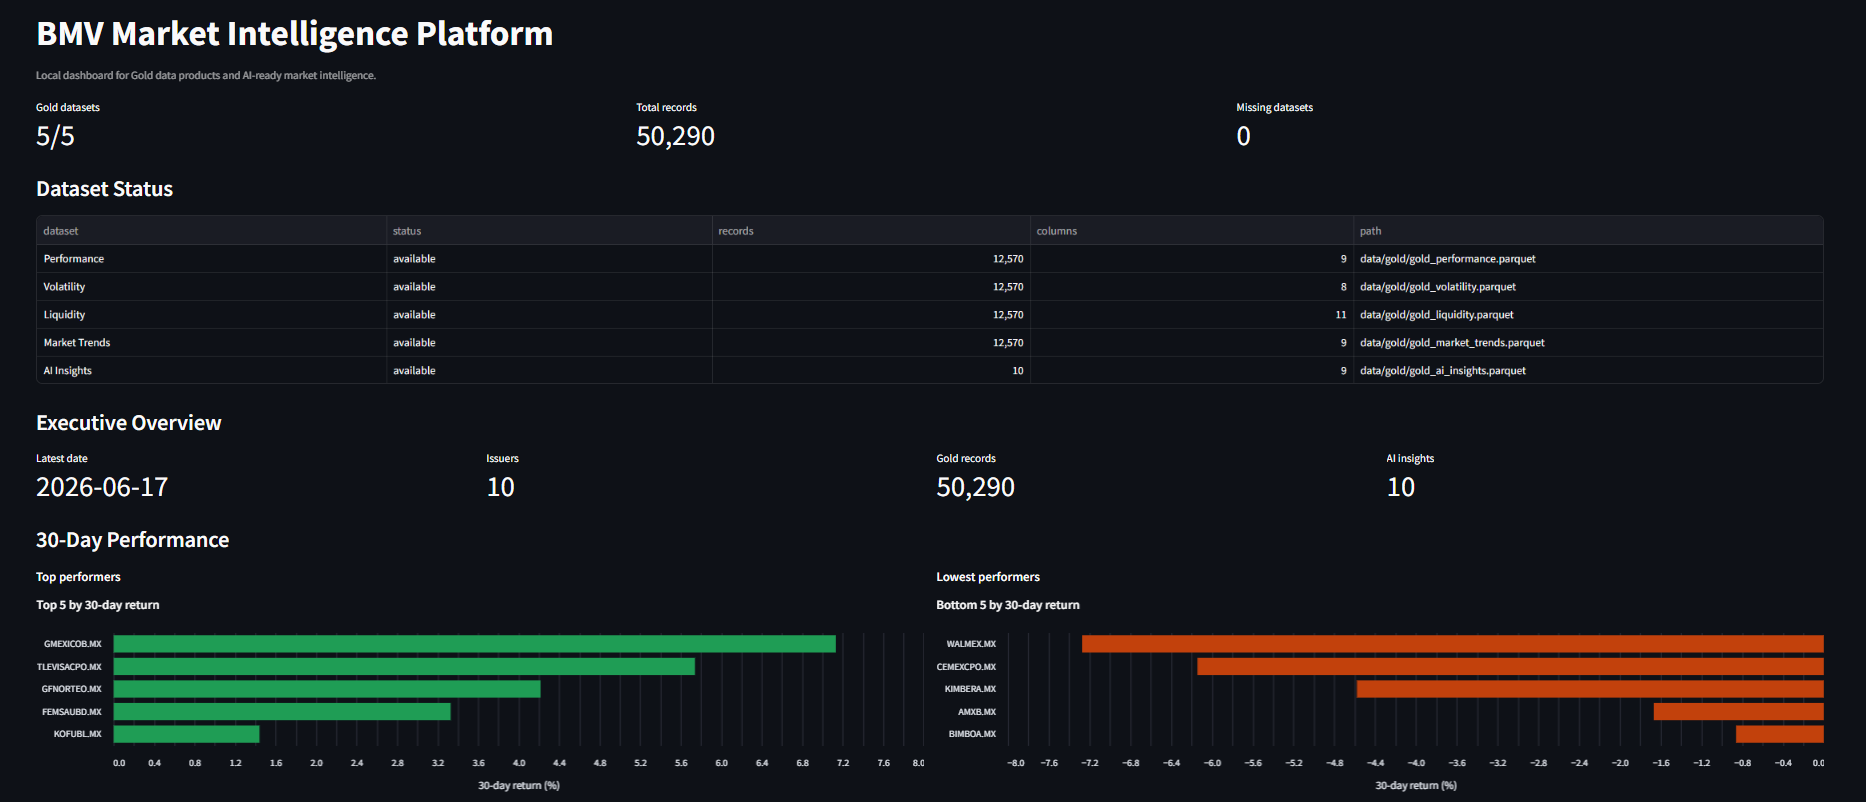
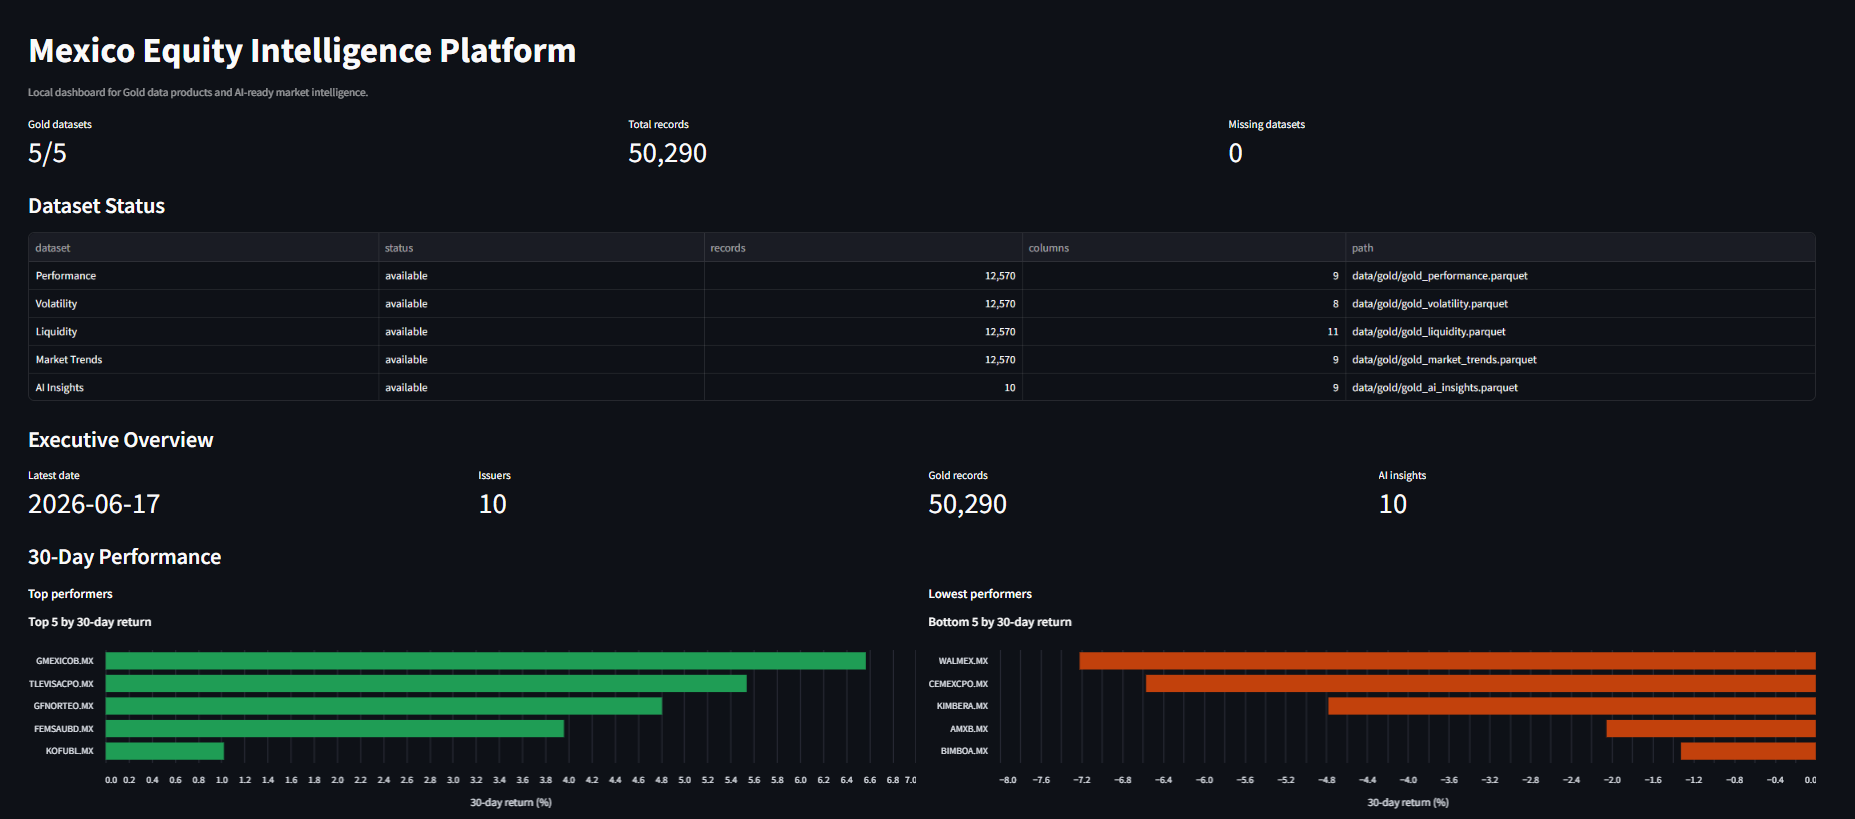
Rename platform and clarify licensing

diff --git a/src/api/main.py b/src/api/main.py
@@ -25,8 +25,8 @@ DATASET_PATHS = {
 }
 
 app = FastAPI(
-    title="BMV Market Intelligence API",
-    description="Local API exposing BMV market intelligence Gold data products.",
+    title="Mexico Equity Intelligence API",
+    description="Local API exposing Mexican equity intelligence Gold data products.",
     version="0.1.0",
 )
 

diff --git a/src/dashboard/app.py b/src/dashboard/app.py
@@ -393,12 +393,12 @@ def render_llm_agent_section() -> None:
 
 def main() -> None:
     st.set_page_config(
-        page_title="BMV Market Intelligence",
+        page_title="Mexico Equity Intelligence",
         page_icon="chart_with_upwards_trend",
         layout="wide",
     )
 
-    st.title("BMV Market Intelligence Platform")
+    st.title("Mexico Equity Intelligence Platform")
     st.caption("Local dashboard for Gold data products and AI-ready market intelligence.")
 
     datasets = load_gold_datasets()

diff --git a/docs/internal/CODEX_SESSION_STATE.md b/docs/internal/CODEX_SESSION_STATE.md
@@ -2,7 +2,7 @@
 
 ## Current Status
 
-The project currently implements the local Raw, Silver, Gold, Metadata, Data Quality, API, Dashboard, AI Agent, documentation, and demo preview layers for the BMV Market Intelligence Platform MVP.
+The project currently implements the local Raw, Silver, Gold, Metadata, Data Quality, API, Dashboard, AI Agent, documentation, and demo preview layers for the Mexico Equity Intelligence Platform MVP.
 
 Current saved status date:
 
@@ -53,7 +53,7 @@ main synchronized with origin/main
 - README business value and monetization strategy sections.
 - README prerequisites section for external local execution.
 - README prerequisites include official Git and Docker Desktop installation links.
-- README Quick Start includes `git clone` and `cd bmv-market-intelligence-platform` before Docker commands.
+- README Quick Start includes `git clone` and `cd mexico-equity-intelligence-platform` before Docker commands.
 - Business pitch document for remote evaluation and business-facing delivery.
 - Streamlit dashboard with Gold dataset preview, executive KPIs, performance charts, risk/volatility charts, liquidity/volume views, AI insights, and an embedded AI Agent question selector.
 - Internal project notes moved under `docs/internal/` so the repository root stays clean for reviewers.
@@ -181,7 +181,7 @@ Silver derived fields include:
 Git may report `dubious ownership` in this environment. For Git inspection commands, use:
 
 ```bash
-git -c safe.directory=F:/Proyectos/bmv-market-intelligence-platform status --short
+git -c safe.directory=F:/Proyectos/mexico-equity-intelligence-platform status --short
 ```
 
 The repository should be clean and synchronized with `origin/main` after saving and pushing this snapshot.
@@ -229,8 +229,8 @@ The project is ready to be sent by repository link and is ready for external tes
 Recommended tester validation:
 
 ```text
-git clone https://github.com/Yhodiux/bmv-market-intelligence-platform.git
-cd bmv-market-intelligence-platform
+git clone https://github.com/Yhodiux/mexico-equity-intelligence-platform.git
+cd mexico-equity-intelligence-platform
 docker compose run --rm pipeline
 docker compose run --rm tests
 docker compose up
@@ -248,9 +248,9 @@ Recommended delivery message:
 ```text
 Hola, comparto el repositorio del proyecto:
 
-https://github.com/Yhodiux/bmv-market-intelligence-platform
+https://github.com/Yhodiux/mexico-equity-intelligence-platform
 
-El proyecto implementa un MVP local de Data Engineering + AI para inteligencia de mercado mexicana/BMV. Incluye pipeline Raw/Silver/Gold, validaciones de calidad, catalogo de metadata, API FastAPI, dashboard Streamlit, AI Agent con respuestas fundamentadas en datasets Gold, documentacion y screenshots de demo.
+El proyecto implementa un MVP local de Data Engineering + AI para inteligencia de renta variable mexicana. Incluye pipeline Raw/Silver/Gold, validaciones de calidad, catalogo de metadata, API FastAPI, dashboard Streamlit, AI Agent con respuestas fundamentadas en datasets Gold, documentacion y screenshots de demo.
 
 Se puede ejecutar localmente con Docker:
 

diff --git a/README.md b/README.md
@@ -1,8 +1,15 @@
-# BMV Market Intelligence Platform
+# Mexico Equity Intelligence Platform
 
 Transforming public market data into AI-ready data products for Market Intelligence and data monetization.
 
 Local Data Engineering and AI MVP for Mexican Market Intelligence data products.
+
+> [!IMPORTANT]
+> This independent project is not affiliated with, endorsed by, or sponsored by
+> Bolsa Mexicana de Valores, S.A.B. de C.V. or Grupo BMV. "BMV" and related
+> trademarks belong to their respective owners. The reproducible prototype uses
+> public market observations obtained through Yahoo Finance; it does not use or
+> redistribute BMV market data.
 
 ---
 
@@ -96,8 +103,8 @@ No local Python installation, cloud account, API token, paid BMV service, or BMV
 Clone the repository and enter the project folder:
 
 ```bash
-git clone https://github.com/Yhodiux/bmv-market-intelligence-platform.git
-cd bmv-market-intelligence-platform
+git clone https://github.com/Yhodiux/mexico-equity-intelligence-platform.git
+cd mexico-equity-intelligence-platform
 ```
 
 Run the full local pipeline:

diff --git a/docs/internal/PROJECT_CONTEXT_FOR_CODEX.md b/docs/internal/PROJECT_CONTEXT_FOR_CODEX.md
@@ -2,7 +2,7 @@
 
 ## Project Name
 
-BMV Market Intelligence & Data Products Platform
+Mexico Equity Intelligence & Data Products Platform
 
 ---
 
@@ -86,7 +86,7 @@ Yahoo Finance provides public historical daily market data suitable for the MVP:
 
 Yahoo Finance is used only as the technical data source for the MVP.
 
-The business framing remains focused on the Mexican stock market and BMV-related data products.
+The business framing remains focused on the Mexican stock market and equity intelligence data products.
 
 ---
 
@@ -473,7 +473,7 @@ The AI Agent must not invent numbers. It should answer based on the Gold dataset
 Expected structure:
 
 ```text
-bmv-market-intelligence-platform/
+mexico-equity-intelligence-platform/
 ├── README.md
 ├── docker-compose.yml
 ├── .env.example

diff --git a/docs/architecture/data_flow.md b/docs/architecture/data_flow.md
@@ -2,7 +2,7 @@
 
 ## Purpose
 
-The BMV Market Intelligence Platform is a local, Docker-based MVP that transforms public Mexican market data into AI-ready data products for Market Intelligence and data monetization.
+The Mexico Equity Intelligence Platform is a local, Docker-based MVP that transforms public Mexican market data into AI-ready data products for Market Intelligence and data monetization.
 
 It is not a trading system, investment recommender, or price prediction platform. Forecasting models are intentionally outside the current MVP and belong only to future roadmap phases after the governed data foundation is in place.
 
@@ -32,7 +32,7 @@ flowchart LR
 
 This MVP does not use BMV Web Services because those services require commercial access, credentials, controlled connectivity, and authorization processes that would make the assessment harder to reproduce.
 
-Yahoo Finance is used through `yfinance` as the technical data source because it provides public historical daily prices without credentials. The business domain remains focused on Mexican market intelligence and BMV-related data products.
+Yahoo Finance is used through `yfinance` as the technical data source because it provides public historical daily prices without credentials. The business domain remains focused on Mexican equity intelligence and related data products.
 
 ## Source Assessment
 

diff --git a/docs/demo_guide.md b/docs/demo_guide.md
@@ -2,7 +2,7 @@
 
 ## Goal
 
-This guide helps reviewers run and evaluate the BMV Market Intelligence Platform locally with Docker.
+This guide helps reviewers run and evaluate the Mexico Equity Intelligence Platform locally with Docker.
 
 Core positioning:
 
@@ -327,6 +327,6 @@ Use these cases to show that the assistant is governed by design:
 
 ## Notes
 
-Yahoo Finance is used as the public technical data source for local reproducibility. The business framing remains Mexican market intelligence related to BMV issuers.
+Yahoo Finance is used as the public technical data source for local reproducibility. The business framing remains focused on Mexican-listed equities and the information needs of capital-market participants.
 
 BMV Web Services are not used in this MVP because they require commercial access, credentials, and controlled connectivity.

diff --git a/docs/business_pitch.md b/docs/business_pitch.md
@@ -10,7 +10,7 @@ The platform is not designed to predict the market. It is designed to create a t
 
 ## Solution Overview
 
-The BMV Market Intelligence Platform transforms public market observations into AI-ready data products and higher-level information services.
+The Mexico Equity Intelligence Platform transforms public market observations into AI-ready data products and higher-level information services.
 
 It applies a structured data engineering flow that converts raw market data into curated Gold products for performance, volatility, liquidity, market trends, and AI-ready insights. These products are then exposed through consumption channels such as APIs, an executive dashboard, and a governed AI Market Intelligence Agent.
 

diff --git a/docs/executive_summary.md b/docs/executive_summary.md
@@ -2,7 +2,7 @@
 
 ## Project Overview
 
-The BMV Market Intelligence Platform is a local, Docker-based data engineering and AI MVP for Mexican Market Intelligence and data monetization.
+The Mexico Equity Intelligence Platform is a local, Docker-based data engineering and AI MVP for Mexican Market Intelligence and data monetization.
 
 It transforms public historical market data into governed, reusable, AI-ready data products:
 

diff --git a/docs/project_status_2026_06_18.md b/docs/project_status_2026_06_18.md
@@ -2,7 +2,7 @@
 
 ## Current Repository State
 
-- Repository: `https://github.com/Yhodiux/bmv-market-intelligence-platform`
+- Repository: `https://github.com/Yhodiux/mexico-equity-intelligence-platform`
 - Branch: `main`
 - Current reviewed commit: `5cd36a0 Point product tour to release candidate`
 - Recommended review tag: `v1.0-rc1`

diff --git a/docs/release_notes_v1_0_demo.md b/docs/release_notes_v1_0_demo.md
@@ -1,6 +1,6 @@
 # v1.0-demo Release Notes
 
-Stable review version for the BMV Market Intelligence Platform.
+Stable review version for the Mexico Equity Intelligence Platform.
 
 Positioning:
 